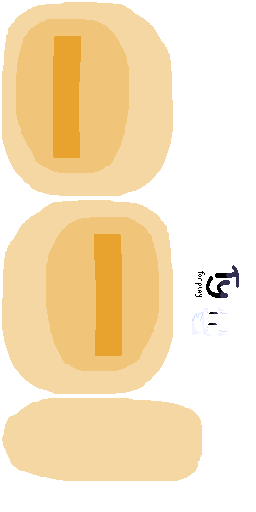
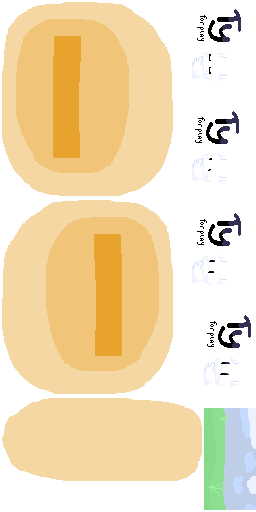
epik update

diff --git a/scripts/c3runtime.js b/scripts/c3runtime.js
@@ -3989,7 +3989,9 @@ self.C3_GetObjectRefTable = function () {
 		C3.Behaviors.Platform.Cnds.IsMoving,
 		C3.Behaviors.Platform.Cnds.IsOnFloor,
 		C3.Plugins.Sprite.Acts.SetAnim,
-		C3.Behaviors.Platform.Cnds.IsJumping
+		C3.Behaviors.Platform.Cnds.IsJumping,
+		C3.Behaviors.Platform.Acts.SimulateControl,
+		C3.Behaviors.Platform.Acts.SetJumpStrength
 	];
 };
 self.C3_JsPropNameTable = [
@@ -4004,7 +4006,11 @@ self.C3_JsPropNameTable = [
 	{Клавиатура: 0},
 	{Sprite: 0},
 	{Спрайт6: 0},
-	{БезИмени: 0}
+	{Спрайт7: 0},
+	{Спрайт8: 0},
+	{bg: 0},
+	{Спрайт9: 0},
+	{Спрайт10: 0}
 ];
 }
 
@@ -4107,7 +4113,9 @@ function or(l, r)
 self.C3_ExpressionFuncs = [
 		() => "run",
 		() => "idle",
-		() => "jump"
+		() => "jump",
+		() => 2000,
+		() => 1000
 ];
 
 

diff --git a/index.html b/index.html
@@ -2,16 +2,13 @@
 <html>
 <head>
 <meta charset="UTF-8">
-<title>gameTest</title>
+<title>Boykisser Adventure</title>
 <meta name="viewport" content="width=device-width, initial-scale=1.0, maximum-scale=1.0, minimum-scale=1.0, user-scalable=no">
 
 <meta name="generator" content="Scirra Construct">
 
 	<link rel="manifest" href="appmanifest.json">
-	<link rel="apple-touch-icon" sizes="128x128" href="icons/Иконка-128.png">
-	<link rel="apple-touch-icon" sizes="256x256" href="icons/Иконка-256.png">
-	<link rel="apple-touch-icon" sizes="512x512" href="icons/Иконка-512.png">
-	<link rel="icon" type="image/png" href="icons/Иконка-512.png">
+	<link rel="icon" type="image/png" href="icons/gameicon2.png">
 
 <link rel="stylesheet" href="style.css">
 
